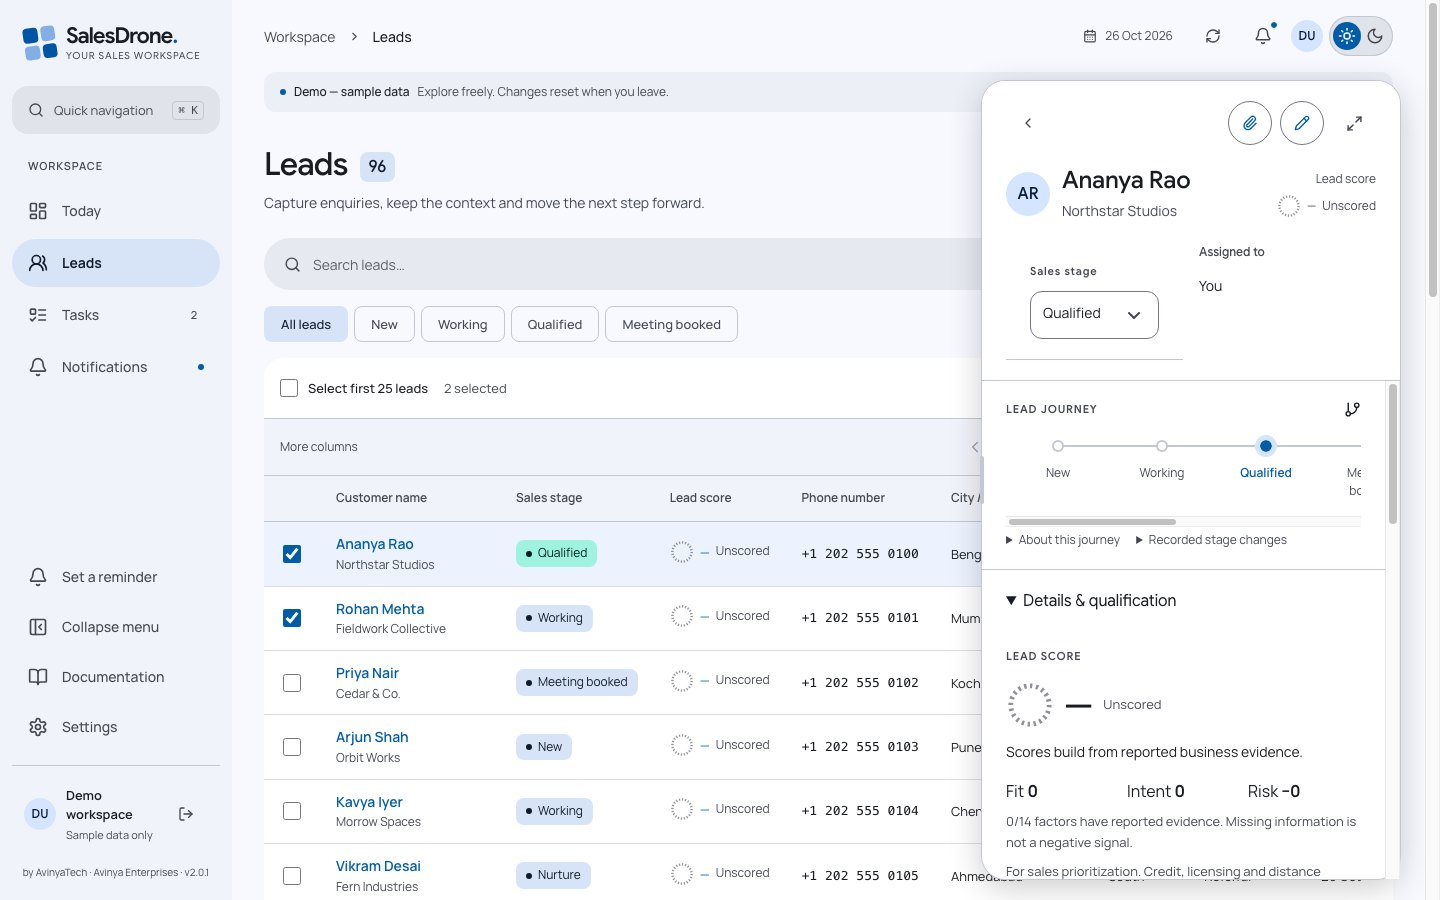
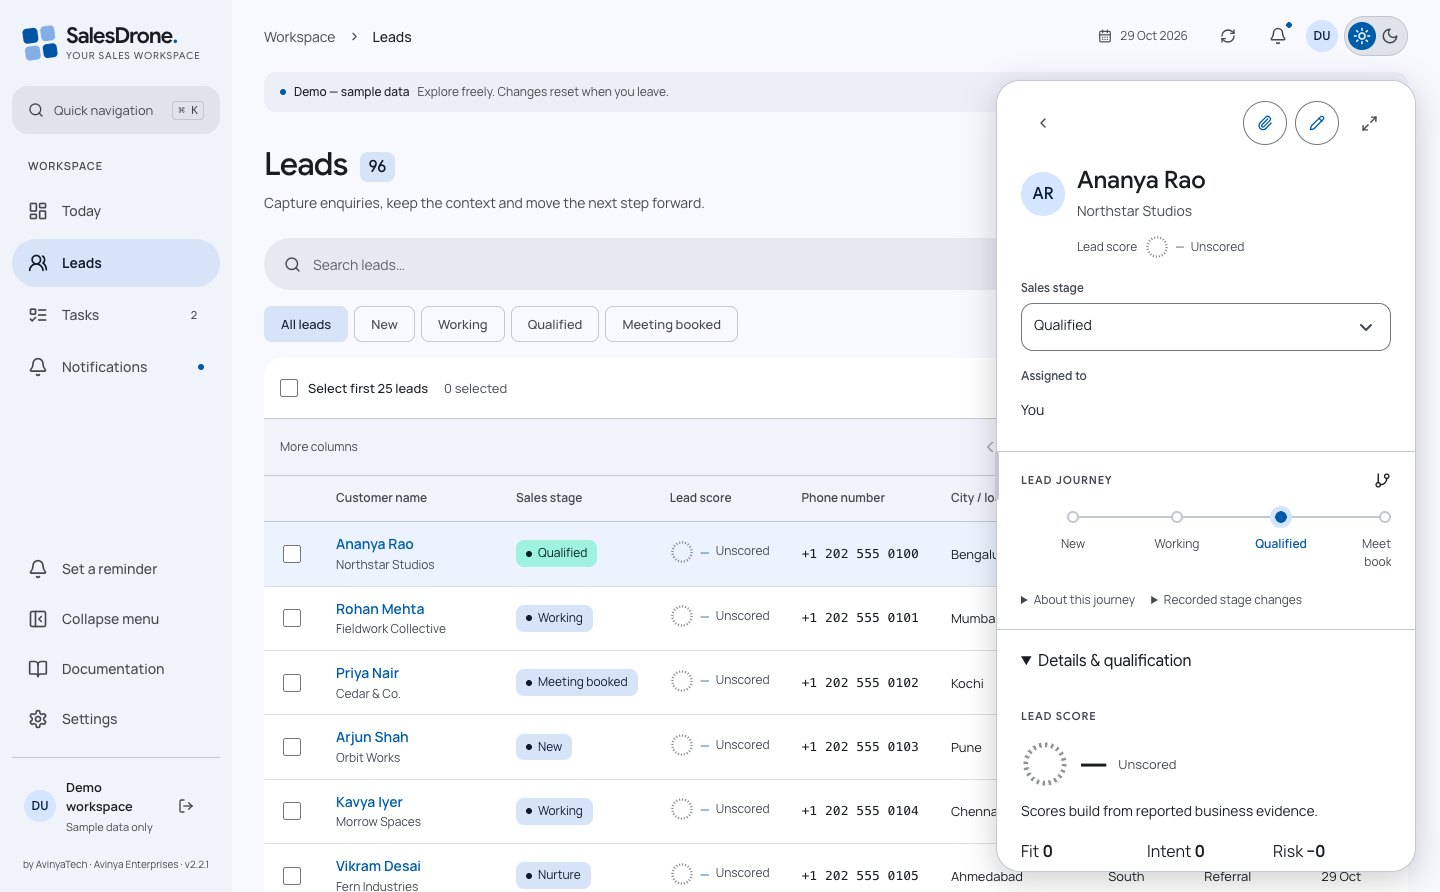
Align lead workflow header and outreach chart axes

diff --git a/apps/web/src/review/AdminReview.tsx b/apps/web/src/review/AdminReview.tsx
@@ -3,7 +3,11 @@ import React, { useCallback, useState, useEffect } from 'react';
 import { createRoot } from 'react-dom/client';
 import SettingsPage from '../features/SettingsPage';
 import ImportPage from '../features/ImportPage';
-import { Brand, Loading, Modal } from '../components/UI';
+import { Avatar, Brand, LeadName, Loading, Modal } from '../components/UI';
+import LeadBlade from '../components/LeadBlade';
+import Assignment from '../components/Assignment';
+import { ScoreBadge } from '../components/LeadScore';
+import { ChevronLeft, Pencil } from 'lucide-react';
 import { LeadForm, CallForm, TaskForm } from '../components/Forms';
 import TaskEditForm from '../components/TaskEditForm';
 import { demoData } from '../lib/demo';
@@ -143,6 +147,14 @@ const formSamples = demoData();
 let resetPreview = false;
 let previewResetJob: any = null;
 function AdminReview() {
+  const [headerLead, setHeaderLead] = useState({
+    ...formSamples.leads[0],
+    id: 'synthetic-header',
+    name: 'Asha Raman',
+    company: 'Northstar Buildworks',
+    assignedToUid: null as string | null,
+    stage: 'Won',
+  });
   const [formPreview, setFormPreview] = useState('');
   const previewSave = async () => {
     throw Error('Form preview only. Nothing is saved.');
@@ -243,6 +255,38 @@ function AdminReview() {
     },
     [config],
   );
+  const headerRequest = useCallback(async (path: string, method = 'GET', body?: any) => {
+    if (path === '/leads/synthetic-header/assignment' && method === 'PATCH') {
+      setHeaderLead((old) => ({ ...old, assignedToUid: body.assignedToUid }));
+      return {};
+    }
+    return request(path, method, body);
+  }, [request]);
+  if (new URLSearchParams(window.location.search).get('preview') === 'lead-header')
+    return <>
+      <div className="review-admin-banner">Fictional lead header · in-memory preview only</div>
+      <LeadBlade
+        fullPage={!new URLSearchParams(window.location.search).has('overlay')}
+        onClose={() => { window.location.href = '/design-admin.html'; }}
+        onExpand={() => { window.location.href = '/design-admin.html?preview=lead-header'; }}
+        toolbar={<>
+          <button className="text-button" aria-label="Back to leads"><ChevronLeft size={16}/><span className="lead-action-label">Back to leads</span></button>
+          <button className="button detail-edit-button" aria-label="Edit lead"><Pencil size={16}/><span className="lead-action-label">Edit lead</span></button>
+        </>}
+        identity={<div className="detail-profile">
+          <Avatar name={headerLead.name}/><h2><LeadName name={headerLead.name} detail/></h2><p>{headerLead.company}</p>
+          <div className="lead-header-score"><span>Lead score</span><ScoreBadge/></div>
+        </div>}
+        workflow={<>
+          <div className="detail-section"><h3>Sales stage</h3>
+            <select aria-label="Update lead stage" value={headerLead.stage} onChange={e => setHeaderLead(old=>({...old,stage:e.target.value}))}>
+              {config.values.stage.map(stage=><option key={stage}>{stage}</option>)}
+            </select>
+          </div>
+          <Assignment compact lead={headerLead} request={headerRequest} onSaved={async()=>{}}/>
+        </>}
+      ><p className="notice">Synthetic layout preview. No customer records or live API calls.</p></LeadBlade>
+    </>;
   if (new URLSearchParams(window.location.search).get('preview') === 'startup')
     return (
       <div className="startup">

diff --git a/apps/web/src/features/DashboardPage.tsx b/apps/web/src/features/DashboardPage.tsx
@@ -167,14 +167,17 @@ function Trend({ data }: { data: any[] }) {
         </button>
       </div>
       <div className="trend-plot">
-        <div className="trend-y-labels" aria-hidden="true">
+        <div className="trend-y-labels" data-maximum={max} aria-hidden="true">
           {[1, 0.5, 0].map((v) => (
-            <span key={v}>{Math.round(max * v)}</span>
+            <span key={v} style={{ top: `${((168 - v * 130) / 210) * 100}%` }}>
+              {Math.round(max * v)}
+            </span>
           ))}
         </div>
         <svg
           className="trend-chart"
           viewBox="0 0 620 210"
+          preserveAspectRatio="none"
           role="img"
           aria-label={
             metric === 'calls'
@@ -244,10 +247,10 @@ function Trend({ data }: { data: any[] }) {
             </>
           ) : null}
         </svg>
-      </div>
-      <div className="trend-dates" aria-hidden="true">
-        <span>{data[0]?.date.slice(5)}</span>
-        <span>{data.at(-1)?.date.slice(5)}</span>
+        <div className="trend-dates" aria-hidden="true">
+          <span>{data[0]?.date.slice(5)}</span>
+          <span>{data.at(-1)?.date.slice(5)}</span>
+        </div>
       </div>
       <div className="trend-caption">
         <label className="trend-day-picker">

diff --git a/apps/web/src/material/dashboard.css b/apps/web/src/material/dashboard.css
@@ -386,22 +386,35 @@
   font-weight: 600;
 }
 .trend-chart {
-  display: grid;
-  grid-template-columns: 28px minmax(0, 1fr);
+  display: block;
   height: 180px;
-  margin-top: 12px;
-  gap: 8px;
+  margin: 0;
 }
 .trend-y-labels {
-  display: flex;
-  flex-direction: column;
-  justify-content: space-between;
+  position: relative;
+  grid-row: 1;
+  height: 180px;
+  min-width: 3ch;
   font-size: 0.6875rem;
   color: var(--muted);
-  padding-block: 8px;
+  line-height: 1;
+  font-variant-numeric: tabular-nums;
+}
+.trend-y-labels > span {
+  position: absolute;
+  right: 0;
+  transform: translateY(-50%);
+  white-space: nowrap;
+}
+.trend-y-labels::before {
+  content: attr(data-maximum);
+  visibility: hidden;
 }
 .trend-plot {
   min-width: 0;
+  display: grid;
+  grid-template-columns: max-content minmax(0, 1fr);
+  column-gap: 8px;
 }
 .trend-plot svg {
   display: block;
@@ -415,9 +428,10 @@
   stroke-dasharray: 3 4;
 }
 .trend-dates {
+  grid-column: 2;
   display: flex;
   justify-content: space-between;
-  padding-left: 36px;
+  padding-inline: 4.83871%;
   font-size: 0.6875rem;
   color: var(--muted);
   margin-top: 8px;

diff --git a/apps/web/src/material/workspaces.css b/apps/web/src/material/workspaces.css
@@ -486,13 +486,22 @@ tbody tr:last-child td {
   gap: 16px;
   align-items: start;
 }
-.blade-workflow h3 {
+.blade-workflow > * {
+  min-width: 0;
+}
+.blade-workflow > .detail-section {
+  padding: 0;
+  border: 0;
+}
+.blade-workflow > div > h3 {
   font-size: 0.75rem;
   color: var(--muted);
   font-weight: 500;
+  letter-spacing: normal;
   margin-bottom: 6px;
 }
 .blade-workflow select {
+  width: 100%;
   min-height: max(var(--md-touch-target, 0px), 48px);
   padding: 10px 44px 10px 12px;
   font-size: 0.875rem;
@@ -2122,6 +2131,26 @@ input[type='tel'] {
     min-height: max(var(--md-touch-target, 0px), 44px);
     padding: 0;
     border-radius: 50%;
+  }
+}
+@container lead-surface (max-width: 36rem) {
+  .blade-workflow {
+    grid-template-columns: minmax(0, 1fr);
+  }
+  .lead-header-score {
+    grid-column: 2;
+    grid-row: 3;
+    display: flex;
+    gap: 8px;
+    margin-top: 8px;
+    justify-items: start;
+    min-width: 0;
+    align-items: center;
+    flex-wrap: wrap;
+  }
+  .detail-profile,
+  .full-lead-page .detail-profile {
+    grid-template-columns: 44px minmax(0, 1fr);
   }
 }
 

diff --git a/README.md b/README.md
@@ -1,6 +1,6 @@
 # SalesDrone by AvinyaTech
 
-> v2.2.0 improves Settings text hierarchy and field delete/restore controls, retaining the minimum enquiry details.
+> v2.2.1 aligns mobile lead headers and outreach chart axes, alongside the Settings text and field-control improvements.
 > See [review evidence](docs/MOBILE-2.0.1-REVIEW.md) and the [Observability agent](skills/salesdrone-observability/SKILL.md); deployment evidence is retained per workflow run.
 
 SalesDrone 2.0 uses Material 3 across the workspace, with responsive navigation,
@@ -20,7 +20,7 @@ and [design system](docs/DESIGN-SYSTEM.md). All screenshots use fictional demo d
 [![Node.js 22](https://img.shields.io/badge/Node.js-22-43853d?logo=nodedotjs&logoColor=white)](https://nodejs.org/)
 [![Gemini](https://img.shields.io/badge/AI-Gemini-0756a5?logo=googlegemini&logoColor=white)](https://ai.google.dev/)
 
-**Part of Avinya Enterprises · v2.2.0 · MIT**
+**Part of Avinya Enterprises · v2.2.1 · MIT**
 
 A sales workspace that keeps an enquiry, its conversations and its next step together. Built with React, Firebase and Gemini, with a responsive interface for desktop and mobile.
 
@@ -137,7 +137,7 @@ The [lead overlay](docs/LEAD-BLADE.md) can be resized on desktop without changin
 
 Read the [complete product handbook](https://theharithsa.github.io/SalesDrone/product.html) for module workflows, permissions, troubleshooting and FAQs. The [full settings reference](https://theharithsa.github.io/SalesDrone/settings.html) explains every control. Documentation is also linked above Settings in the app.
 
-![Lead workspace with All, Comments, Calls, Tasks, Files and Review tabs](site/assets/screenshots/lead-workspace-demo.jpg?sha=85f6447a44a9)
+![Lead workspace with All, Comments, Calls, Tasks, Files and Review tabs](site/assets/screenshots/lead-workspace-demo.jpg?sha=3d99d25324ac)
 
 The v1.6.1 maintenance improved inline comment entry and UI recovery without changing the displayed version, as requested. The original tag is preserved; deployments remain distinguishable by commit and Actions run. See [UI stability review](docs/UI-STABILITY.md).
 
@@ -179,7 +179,7 @@ The [testing guide](docs/TESTING.md) and [module case catalog](qa/test-cases.jso
 
 Personal desktop display zoom lives in Settings → Appearance & time. The compact lead header keeps identity, score, stage and assignment together; rings distinguish a known zero from missing evidence.
 
-![Compact lead identity, score, stage and assignment. Fictional demo only.](site/assets/screenshots/lead-workspace-demo.jpg)
+![Compact lead identity, score, stage and assignment. Fictional demo only.](site/assets/screenshots/lead-workspace-demo.jpg?sha=3d99d25324ac)
 
 Batch edit up to 25 explicitly selected leads with a before/after review and atomic version checks. Lead pages now include a Files tab for private Firebase Storage attachments, with upload progress, retry and forced downloads. See [file architecture](docs/ATTACHMENTS.md) and [the product handbook](docs/PRODUCT-GUIDE.md).
 
@@ -219,3 +219,9 @@ icons. Keep name, enquiry date and one contact method; removed fields retain the
 saved values.
 
 <img src="site/assets/screenshots/field-manager-mobile-demo.jpg" alt="Fictional mobile field settings with edit, delete and restore behavior" width="390">
+
+### Aligned phone lead controls and chart axes
+
+Stage and assignment stack on compact lead surfaces. Outreach tick labels share the chart gridline positions.
+
+<img src="site/assets/screenshots/lead-header-mobile-demo.jpg" alt="Fictional administrator lead header with aligned full-width controls" width="412">

diff --git a/skills/salesdrone-interface/SKILL.md b/skills/salesdrone-interface/SKILL.md
@@ -181,3 +181,7 @@ Loading wraps its message in a span with centered text and a non-shrinking spinn
 .settings-field-row uses a minmax(0,1fr) text column plus a compact action group, including phones. Its direct span is a grid with a 4px title/metadata gap, explicit type roles and anywhere wrapping. Do not rely on adjacent strong/small inline elements for separation. settings-notice stacks title and body; standard-label-editor spans both row columns. Delete/restore icons retain accessible names, hover titles, minimum-requirement descriptions, focus and compensated touch targets. Form visibility belongs to workspace-settings; visual changes introduce no new API telemetry or business events. Inspect long names, both themes, narrow widths and enlarged text with synthetic fixtures.
 
 Shared action buttons use a unitless line height (20/14) so multiline labels grow with enlarged text instead of overlapping at the former fixed 20px height.
+
+## Header and chart review (2.2.1)
+
+Lead header workflow children reset inherited detail-section padding/borders. Keep equal label type/margins and full-width selects; below a 36rem lead-surface container, stack stage/assignment instead of squeezing them into adjacent columns. The score row can wrap and centers its items. AdminReview preview=lead-header uses real LeadBlade/Assignment with fictional in-memory state; never include it in production. Review compact and wide surfaces, assignee help expansion and keyboard controls.

diff --git a/skills/salesdrone-leads/SKILL.md b/skills/salesdrone-leads/SKILL.md
@@ -160,3 +160,7 @@ Global reset removes active and archived leads and related history/files/imports
 ## Configured form visibility (2.2)
 
 LeadForm respects hidden phone/email/countryCode/stage/comments as well as earlier optional fields. Keep required name/date and at least one visible contact input; only require the remaining contact input when no retained alternate contact satisfies the existing record. Hidden keys are omitted on edits, preserving saved values. New manual records use the existing New stage default and configured first country code even when those controls are removed. Lead normalization, dedupe, suppression/review and legacy import rules remain unchanged. Field retirement never erases historical records or disables dedicated workflow actions. Backend field-options policy prevents hiding both contact inputs; tests cover preservation, contactless-save rejection and restoration.
+
+## Header and chart review (2.2.1)
+
+Stage and assignment in the lead header use uniform label/control geometry. Remove the stage detail-section inset/divider within blade-workflow only; compact lead surfaces stack the two full-width controls. Preserve current stage values, expectedVersion, reassignment warnings and capability checks; responsive layout introduces no write or event.

diff --git a/docs/MATERIAL-3-REVIEW.md b/docs/MATERIAL-3-REVIEW.md
@@ -106,3 +106,7 @@ fractional CDP width and selector quoting were corrected; they were tooling erro
 not recorded as passing coverage. Full local test suites were not rerun.
 Backend/emulator regression cases are updated for required CI execution; local
 preview behavior does not prove backend persistence or production behavior.
+
+## Lead header and outreach axis — local 2.2.1
+
+The human supplied Samsung S26 Ultra screenshots; those private examples are not public fixtures. A fictional real-component Admin header was measured at 320/390/412/480/600/768/1440px. Compact stage/assignee selects shared the same left edge/width; wide controls shared the same Y coordinate; the obsolete stage divider measured zero. Outreach HTML tick centers matched SVG gridlines within 0.01px at 320/412/768/1440/1920px in both themes; both metrics switched. Synthetic captures were inspected. These are Chromium viewport checks, not a physical-device, Samsung-browser or Safari certification. Full local suites were not rerun. The v2.2.0 production run was cancelled during setup, before publishing; live version remained v2.1.1. Required PR/main CI and postdeployment results are separate evidence.

diff --git a/skills/salesdrone-product-guide/SKILL.md b/skills/salesdrone-product-guide/SKILL.md
@@ -133,3 +133,7 @@ Document Lead data management as irreversible workspace-wide lead deletion retai
 ## Field configuration controls (2.2)
 
 Explain the trash/restore icons under Manage fields, standard-field historical-value retention and custom retirement. The human retained minimum-save validation: name/date and one phone/email input remain available. Visibility does not remove workflow/suppression controls. field-manager-demo.jpg and field-manager-mobile-demo.jpg show real components with fictional in-memory AdminReview state; keep their reviewed hashes and dimensions in the manifest and list them in the release plan. Unitless action line-height and content-based stacking support enlarged text; browser emulation is not device certification.
+
+## Header and chart review (2.2.1)
+
+The 2.2.1 header/axis correction refreshes lead-workspace/overlay captures and adds isolated synthetic Admin header and outreach chart captures. Explain stacked phone workflow controls and Y-axis gridline alignment without claiming a physical Samsung test. The earlier 2.2.0 main workflow was cancelled before publication; its Settings assets remain honestly versioned 2.2.0.

diff --git a/docs/PRODUCT-GUIDE.md b/docs/PRODUCT-GUIDE.md
@@ -1,6 +1,6 @@
 # SalesDrone product handbook
 
-Version 2.2.0
+Version 2.2.1
 
 [Complete settings reference](SETTINGS.md) · [API guide](API.md) · [Technical architecture](TECHNICAL.md)
 
@@ -441,6 +441,8 @@ Reports & lead access controls exports and assigned-only visibility for non-admi
 The linked Settings reference is the authoritative per-control checklist. This chapter explains navigation; it does not replace that detailed reference.
 
 The top-right theme switch shows sun and moon icons with a solid indicator on the active mode. It remains keyboard-accessible and removes animation when your device requests reduced motion. Book mode is available from v1.6.3 in Appearance & time; save the personal preference to apply it.
+
+On phones, lead details stack Sales stage and Assigned to controls with matching labels and widths. Dashboard outreach labels align with their horizontal gridlines; use the metric switch and Day selector to inspect values.
 
 ![Settings: complete control reference — synthetic demo only](../site/assets/screenshots/field-manager-demo.jpg)
 

diff --git a/skills/salesdrone-dashboard/SKILL.md b/skills/salesdrone-dashboard/SKILL.md
@@ -81,3 +81,7 @@ The outreach chart's Day select uses a rounded filled surface, vertically center
 value and reserved right padding for the shared chevron. Keep the full date on one
 line; allow the caption metrics to wrap independently. Retain the native select,
 Chart day name, keyboard focus and existing local day-selection behavior.
+
+## Header and chart review (2.2.1)
+
+The outreach trend wrapper owns a grid with a content-sized HTML Y-axis gutter and the SVG plot. Position each tick at the same normalized Y coordinate as its gridline; preserveAspectRatio=none makes the fixed-height SVG coordinate transform consistent across widths. Reserve gutter width from data-maximum rather than a fixed digit count. Date endpoints occupy the plot column. Keep native day selection and SVG circle keyboard actions; geometry is presentation-only, with no changed aggregates, API or telemetry.

diff --git a/docs/DESIGN-SYSTEM.md b/docs/DESIGN-SYSTEM.md
@@ -184,3 +184,7 @@ and hover titles; name/date and the last available contact field show their
 minimum-save requirement rather than silently allowing an unusable enquiry form.
 
 Shared action buttons use a unitless line height (20/14) so multiline labels grow with enlarged text instead of overlapping at the former fixed 20px height.
+
+## Lead workflow and chart geometry (2.2.1)
+
+The lead header owns workflow spacing: stage/assignment labels and controls share type, margins and full width; section padding/dividers do not apply inside this group. A 36rem content-container threshold stacks them. Trend Y ticks share the SVG gridline coordinate transform, with a dynamic text gutter and the dates in the plot column. Do not apply the HTML layout grid to the SVG element.
